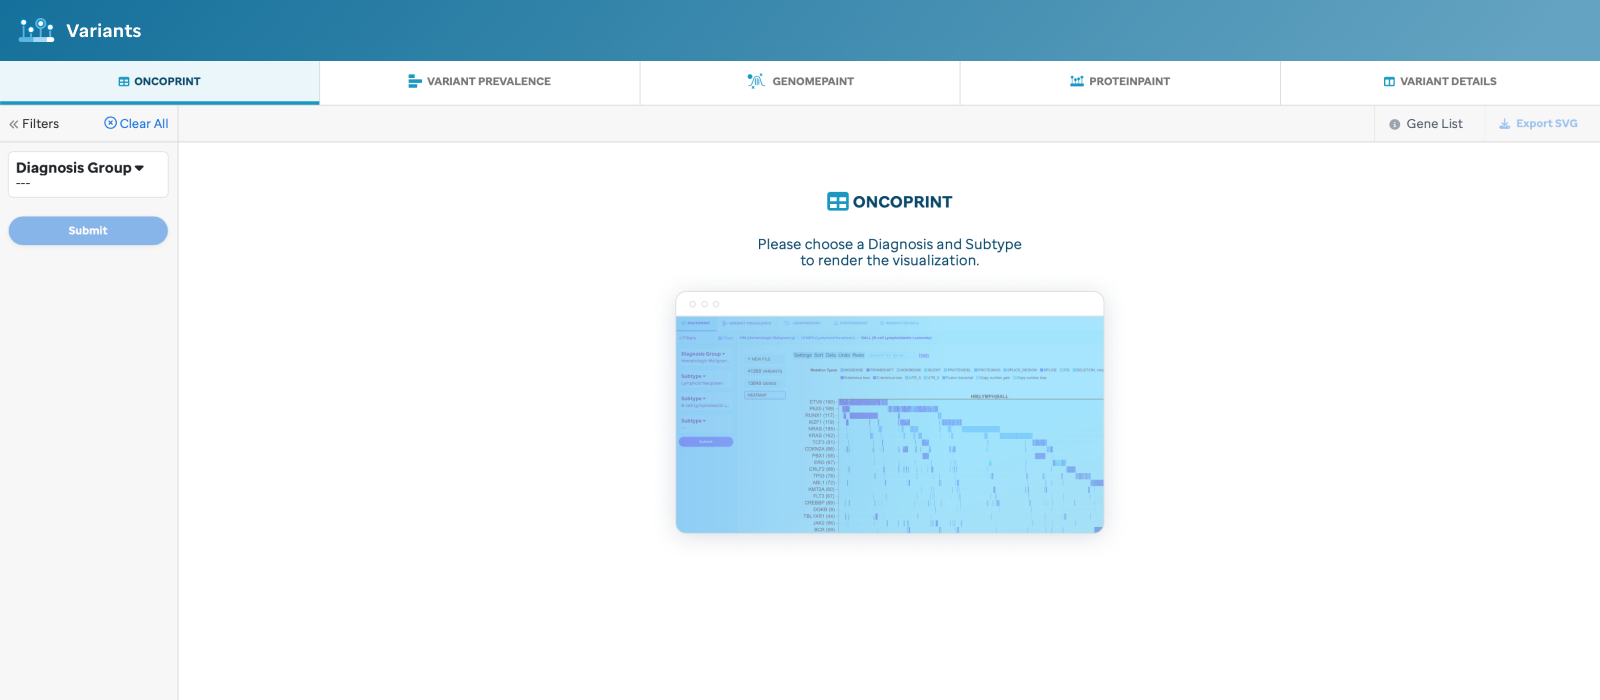
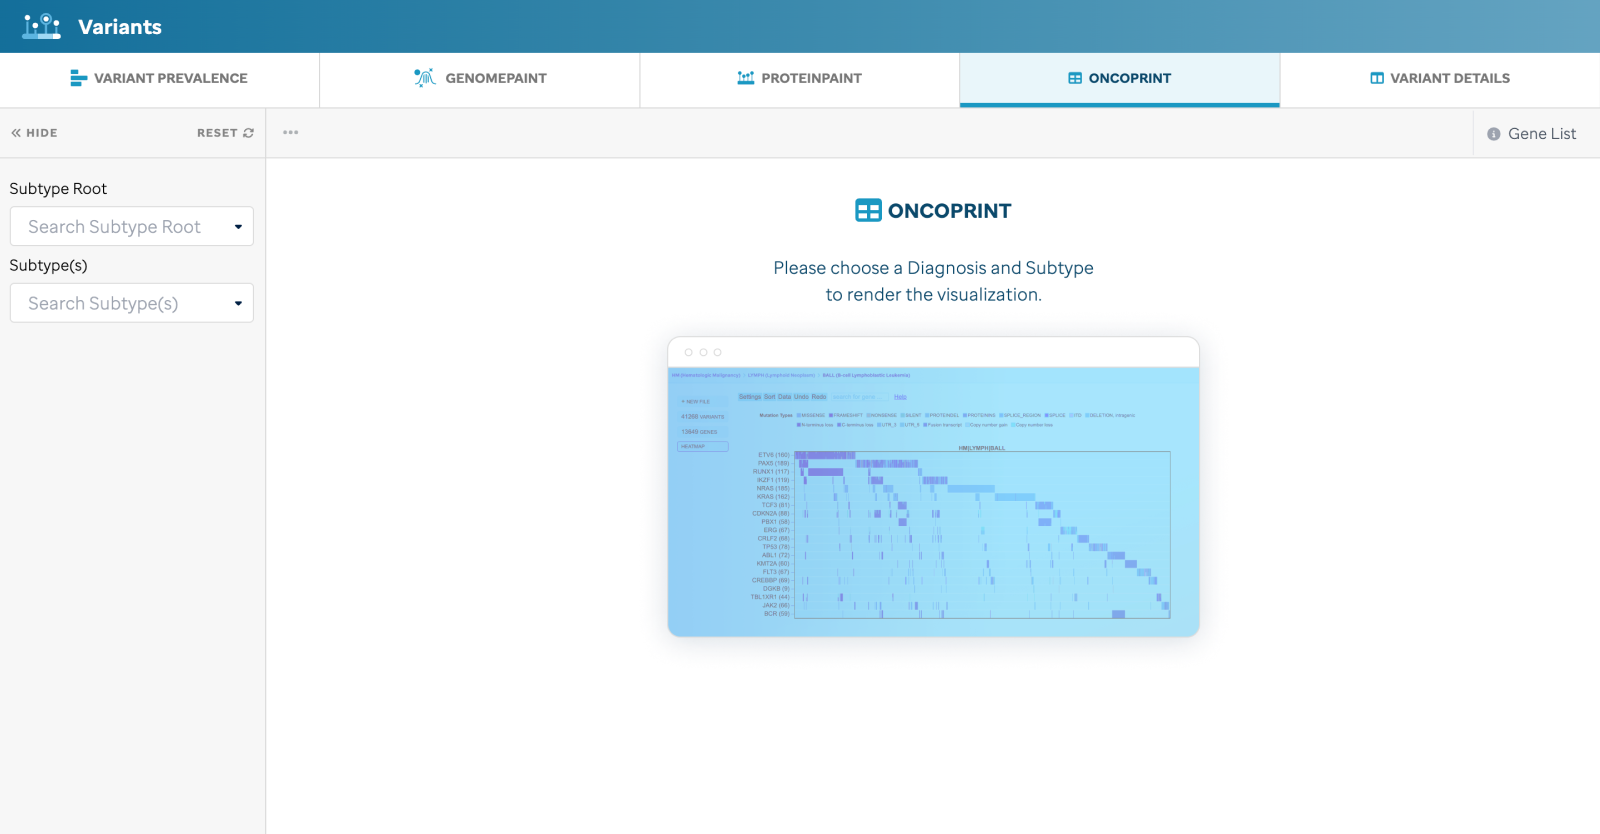
feat: oncoprint and june release notes

diff --git a/content/4.pecan/2.data-facets/1.variants.md b/content/4.pecan/2.data-facets/1.variants.md
@@ -8,48 +8,9 @@ title: Variants
 Perform exploratory research of variants in pediatric cancer subtypes via 5 custom interactive interfaces.
 Curated variants have been identified from whole-genome, whole-exome and whole-transcriptome (RNA-seq) sequencing data from 5500 samples.
 
-## ONCOPRINT
-
-A user will default to a placeholder if a diagnosis and/or subtype is not selected from the Sunburst (**Figure 1**).
-
-![oncoprint](/img/pecan/data-facets/variants/oncoprint.png)
-
-**Figure 1: Variants: Oncoprint view, without filtering.**
-A placeholder is shown when a user directly accesses the Variants data facet.
-
-Diagnosis and/or subtype is required for generating a new oncoprint (**Figure 2**).
-
-::callout{icon="i-heroicons-exclamation-circle" color="orange"}
-**Warning**  
-Updating the filters will **not** update the Sunburst selection, but it **will** update the other facet views (e.g., Variant Prevalence, GenomePaint, and/or ProteinPaint).
-::
-
-![oncoprint template](/img/pecan/data-facets/variants/oncoprint_template.png)
-
-**Figure 2: Variants: Oncoprint view, with filtering.**
-This figure can be generated by following the subtype-centric user experience where a (i) diagnosis and/or subtype was selected from the Sunburst landing page or (ii) a user selected a diagnosis and/or subtype filter -- the filters on the left will auto-populate based on the Sunburst filter selection and can later be customized.
-
-::callout{icon="i-heroicons-light-bulb" color="blue"}
-**Tip**  
-
-- The oncoprint is generated by ProteinPaint and therefore if a user alters the configs within the ProteinPaint UI (e.g, settings, sort, data, etc), the filters will not update, nor will PeCan save this state in the membrane.
-- Clicking a gene will enable a button that allows the user to navigate to ProteinPaint or GenomePaint for that gene.
-::
-
-Once the filters are selected and submitted, then an oncoprint will render.
-For example, a user can choose to render an oncoprint for just a disease: [Brain](https://pecan.stjude.cloud/variants/oncoprint/BT), [Solid](https://pecan.stjude.cloud/variants/oncoprint/ST), or [Blood(Heme)](https://pecan.stjude.cloud/variants/oncoprint/HM).
-Further, the user can customize the oncoprint by employing the ProteinPaint [settings](https://docs.google.com/document/d/1bx3VRdTzJDYdmt4CaU4PfHCOz5JSfTyuSFIuGTx-X2g/).
-
-A few highlights to mention about the ProteinPaint configs are described below (**Figure 3**).
-
-![oncoprint proteinpaint](/img/pecan/data-facets/variants/oncoprint_proteinpaint.png)
-
-**Figure 3: Oncoprint configs.**
-ProteinPaint's UI has customizable configurations that enable a user to edit and change the visualization.
-
 ## VARIANT PREVALENCE
 
-Selected diagnoses within the third ring of the Sunburst have curated  driver variants assigned to pathways.
+Selected diagnoses within the second and third ring of the Subtype Search have curated driver variants assigned to pathways.
 For these cases the variant prevalence page will be headed by a vertically stacked bar plot: the mutational prevalence summary.
 [For methods details follow this link](/pecan/overview/methods-and-data).
 
@@ -147,7 +108,7 @@ See our [Methods and Data](/pecan/overview/methods-and-data) section to learn mo
 
 **Figure 11.**
 ProteinPaint view, without filtering.
-This visualization will provide the basic ProteinPaint view where the full `Pediatric` dataset defaults to hg19.
+This visualization will provide the basic ProteinPaint view where the full `Pediatric` dataset defaults to hg38.
 
 When the user filters by diagnosis and/or subtype, the user will see a subset of data underneath the full `Pediatric` dataset (**Figure 12**).
 
@@ -189,6 +150,43 @@ Then, click the `pathogenic` or `likely pathogenic` button to access the variant
 **Note**  
 If there are more variant changes at the same coordinate, a user can hover under the bottom variant and find a total which creates the variant table for all variants at that amino acid (*as seen in Figure 11*).
 ::
+
+## ONCOPRINT
+
+A user will default to a placeholder if a diagnosis and/or subtype is not selected from the Subtype Search or Subtype Tree (**Figure 1**).
+
+![oncoprint](/img/pecan/data-facets/variants/oncoprint.png)
+
+**Figure 1: Variants: Oncoprint view, without filtering.**
+A placeholder is shown when a user directly accesses the Variants data facet.
+
+Diagnosis and/or subtype is required for generating a new oncoprint (**Figure 2**).
+
+::callout{icon="i-heroicons-exclamation-circle" color="orange"}
+**Warning**  
+Updating the filters will **not** update the Subtype Search or Subtype Tree selection, but it **will** update the other facet views (e.g., Variant Prevalence, GenomePaint, and/or ProteinPaint).
+::
+
+![oncoprint template](/img/pecan/data-facets/variants/oncoprint_template.png)
+
+**Figure 2: Variants: Oncoprint view, with filtering.**
+This figure can be generated by following the subtype-centric user experience where a (i) diagnosis and/or subtype was selected from the Subtype Search or Subtype Tree landing page or (ii) a user selected a diagnosis and/or subtype filter -- the filters on the left will auto-populate based on the Subtype Search or Subtype Tree selection and can later be customized.
+
+::callout{icon="i-heroicons-light-bulb" color="blue"}
+**Tip**  
+
+- Clicking a gene will enable a button that allows the user to navigate to ProteinPaint or GenomePaint for that gene.
+::
+
+Once the filters are selected and submitted, then an oncoprint will render.
+For example, a user can choose to render an oncoprint for just a disease: [Brain](https://pecan.stjude.cloud/variants/oncoprint/BT), [Solid](https://pecan.stjude.cloud/variants/oncoprint/ST), or [Blood(Heme)](https://pecan.stjude.cloud/variants/oncoprint/HM).
+
+A few highlights to mention about the configs are described below (**Figure 3**).
+
+![oncoprint](/img/pecan/data-facets/variants/oncoprint_navigation.png)
+
+**Figure 3: Oncoprint configs.**
+Controls are avilable to **Drag and Drop, Sort and Filter** samples or metadata within the heatmap.
 
 ## VARIANT DETAILS
 

diff --git a/content/4.pecan/5.release-notes/1.index.md b/content/4.pecan/5.release-notes/1.index.md
@@ -7,6 +7,24 @@ description: A running changelog for the PeCan project.
 
 Hi there! Welcome to the PeCan Release Notes page. Here, you'll find a running log of new features, improvements, and changes we've made to PeCan—along with a bit of the rationale behind why we're making them. Check back after each release to see what's new! If you have any questions, feel free to reach out to us at [support@stjude.cloud](mailto:support@stjude.cloud).
 
+## June 2026
+
+This release updates Oncoprint to align visually with the rest of PeCan and adds new features for exploring mutation data by diagnosis subtype.
+
+### Oncoprint
+
+- **Visual Alignment:** Mutation colors now match the Variant Prevalence data facet, making it easier to recognize mutation types across views.
+- **Row Configuration:** Rows in the Oncoprint can be reordered by drag-and-drop, or sorted and filtered.
+- **Navigator Panel:** A new panel at the bottom of the view supports navigation across larger cohorts of samples.
+
+### Variants
+
+- **Variant Prevalence** Mutational prevalence summaries are now available for higher-level subtype nodes such as Hematological Malignancy, Lymphoid Neoplasm, and Myeloid Neoplasm.  At higher-level subtype nodes, pathway prevalence summary is segmented by immediate child diseases. At lower-level disease nodes, pathway prevalence is segmented by all descendant leaf subtypes.
+
+### ProteinPaint & GenomePaint
+
+- Both tools now default to hg38
+
 ## May 2026
 
 This release introduces our Subtype Tree to PeCan, a new way to explore and navigate the full [CC4K](https://docs.stjude.cloud/cc4k) hierarchy of pediatric cancer diagnoses across St. Jude Cloud data.
